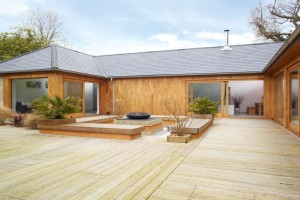
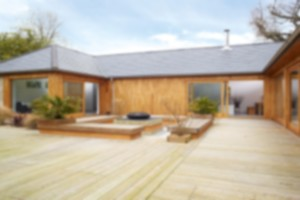
add gitignore final финал s

diff --git a/functions.php b/functions.php
@@ -1,0 +1,76 @@
+<?php
+
+namespace andrewk74\adump;
+
+function pretty_print($in, $opened = true)
+{
+    if ($opened)
+        $opened = ' open';
+    if (is_object($in) or is_array($in)) {
+        echo '<div>';
+        echo '<details' . $opened . '>';
+        echo '<summary>';
+        echo (is_object($in)) ? 'Object {' . count((array)$in) . '}' : 'Array [' . count($in) . ']';
+        echo '</summary>';
+        pretty_print_rec($in, $opened);
+        echo '</details>';
+        echo '</div>';
+    }
+}
+
+function pretty_print_rec($in, $opened, $margin = 10)
+{
+
+
+
+    if (!is_object($in) && !is_array($in))
+        return;
+    // var_dump($in);
+    if (is_object($in)){
+        echo 'Class '.get_class($in);
+    }
+    foreach ($in as $key => $value) {
+        if (is_object($value) or is_array($value)) {
+            echo '<details style="margin-left:' . $margin . 'px" ' . $opened . '>';
+            echo '<summary>';
+            // echo (is_object($value)) ? $key . ' {' . count((array)$value) . '}' : $key . ' [' . count($value) . ']';
+            if (is_object($value)) {
+                echo $key . ' {' . count((array)$value) . '}';
+            } else {
+                echo $key . ' [' . count($value) . ']';
+            }
+
+            echo '</summary>';
+            pretty_print_rec($value, $opened, $margin + 10);
+            echo '</details>';
+        } else {
+            switch (gettype($value)) {
+                case 'string':
+                default:
+                    $bgc = 'red';
+                    break;
+                case 'integer':
+                    $bgc = 'green';
+                    break;
+            }
+            echo '<div style="margin-left:' . $margin . 'px">' . $key . ' : <span style="color:' . $bgc . '">' . $value . '</span> 
+(' . gettype($value) . ')</div>';
+        }
+    }
+}
+
+function adump($var, $die = false)
+
+{
+    if (is_array($var)) {
+        ?><p>Значение массива</p><? pretty_print($var);
+    } else { ?><p>Значение переменной</p><? var_dump($var);
+    }
+
+    if ($die) {
+        die;
+    }
+
+}
+
+?>

diff --git a/index.php b/index.php
@@ -22,6 +22,5 @@ $manager = new ImageManager(array('driver' => 'imagick'));
 
 // to finally create image instances
 echo __DIR__ .'/images/test.jpg';
-$image = $manager->make(__DIR__ .'/images/test.jpg')->resize(300, 200);
-var_dump($image);
+$image = $manager->make(__DIR__ .'/images/test.jpg')->resize(300, 200)->blur(2)->save('images/test22.jpg');;
 
